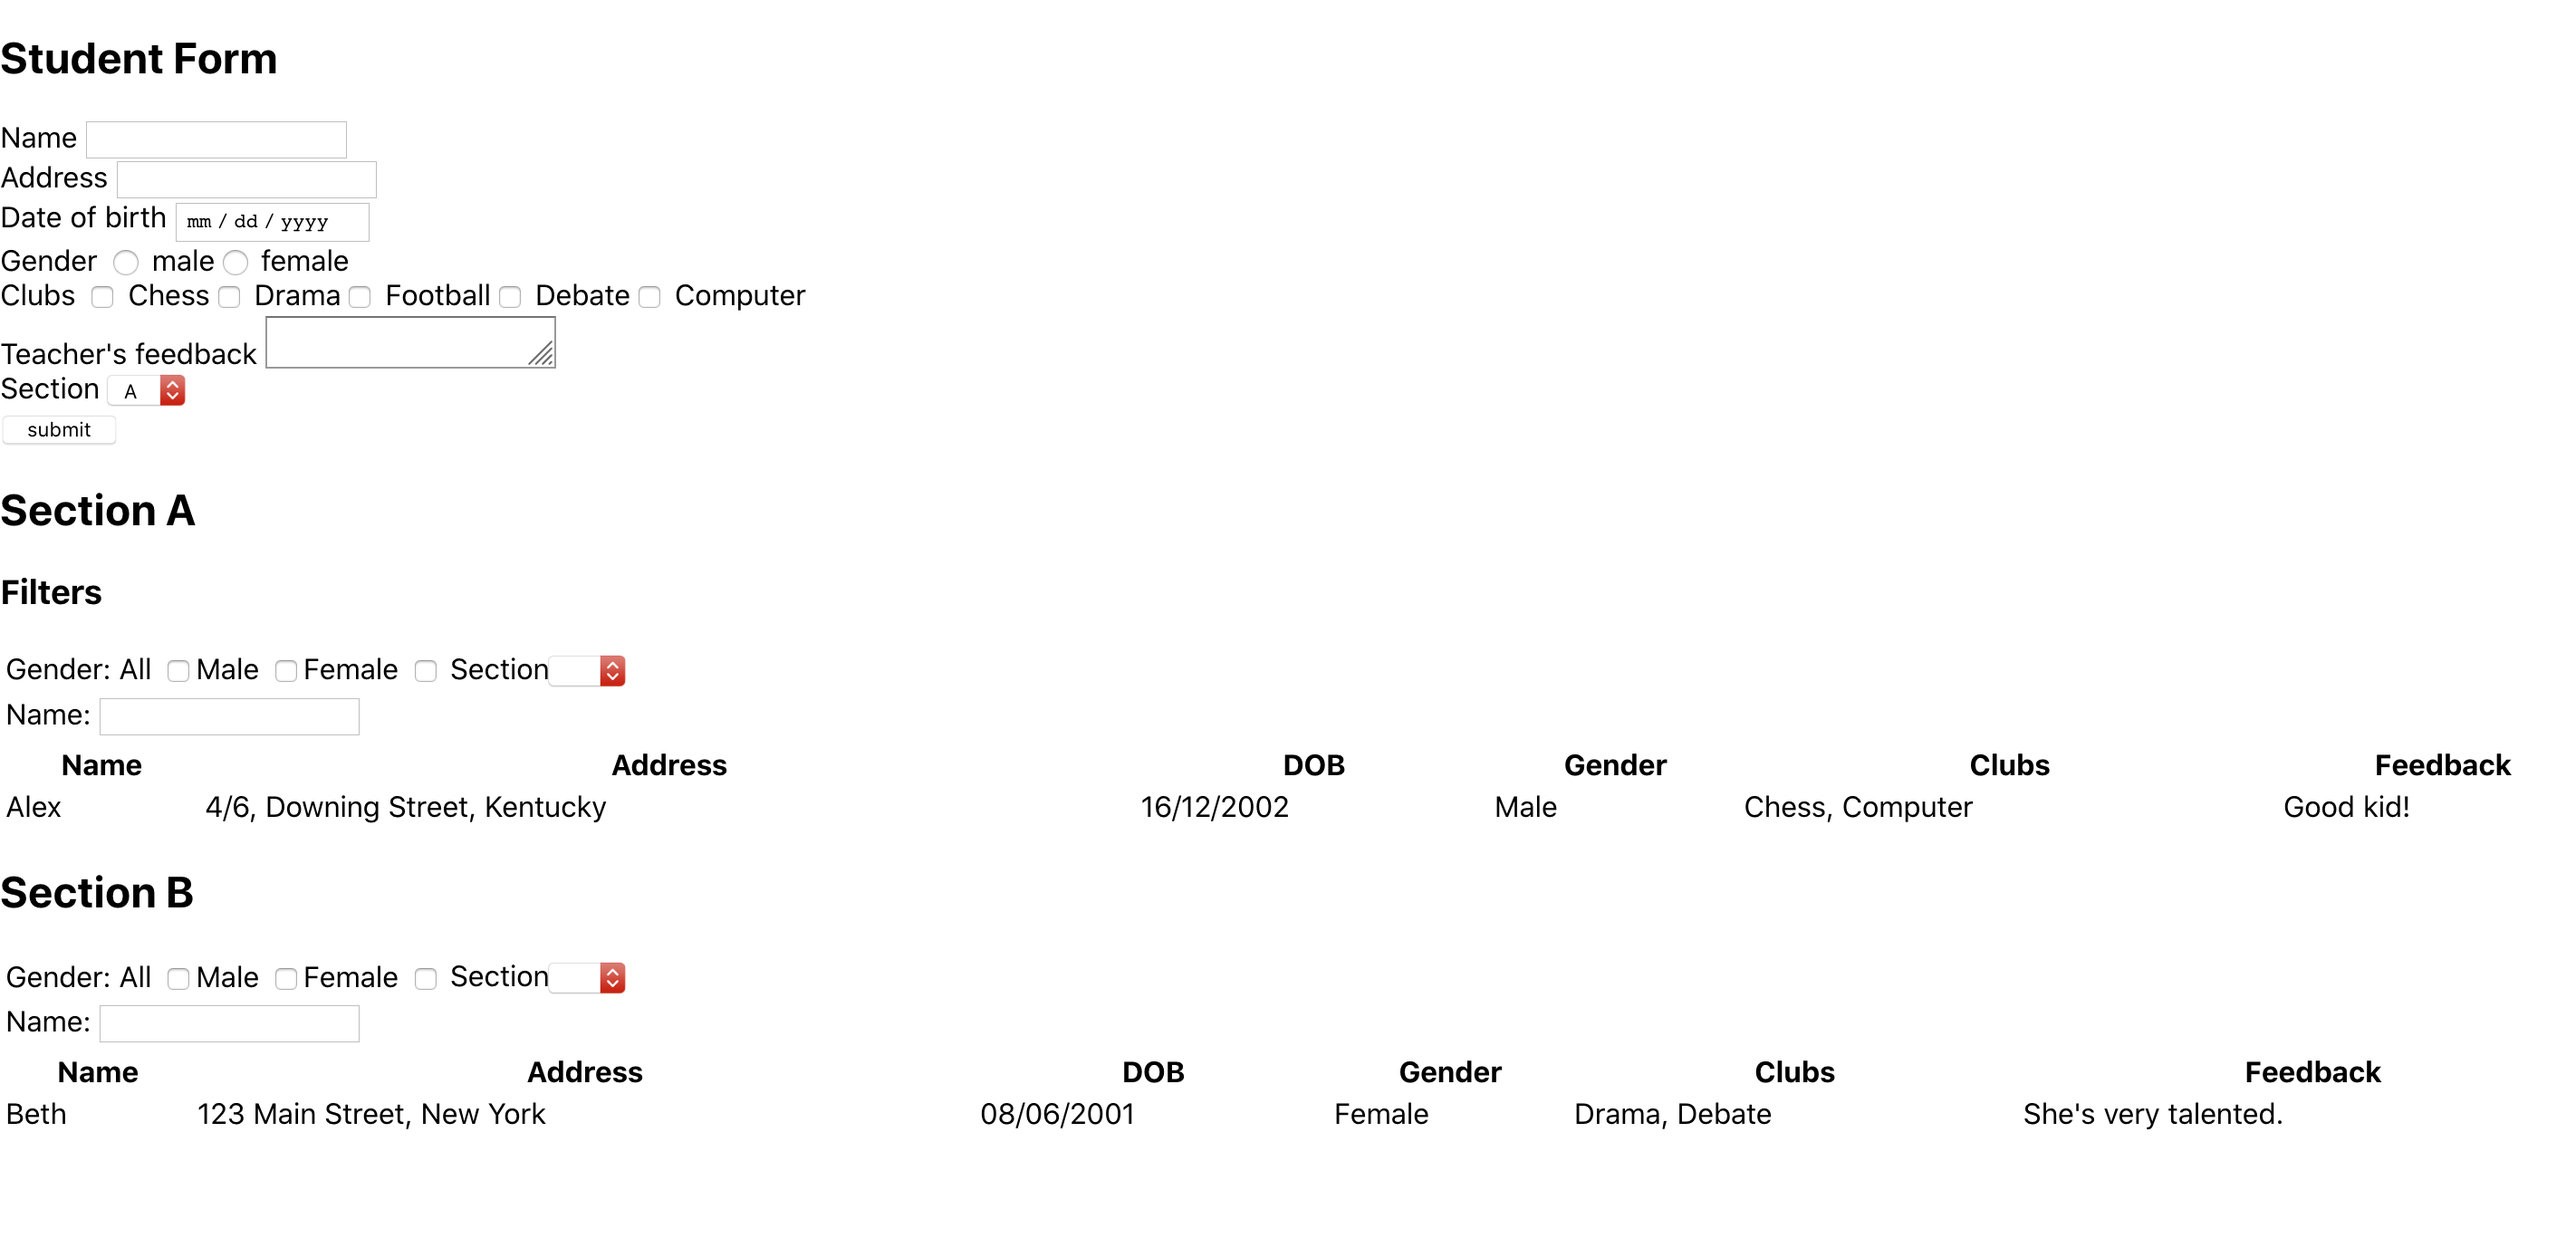
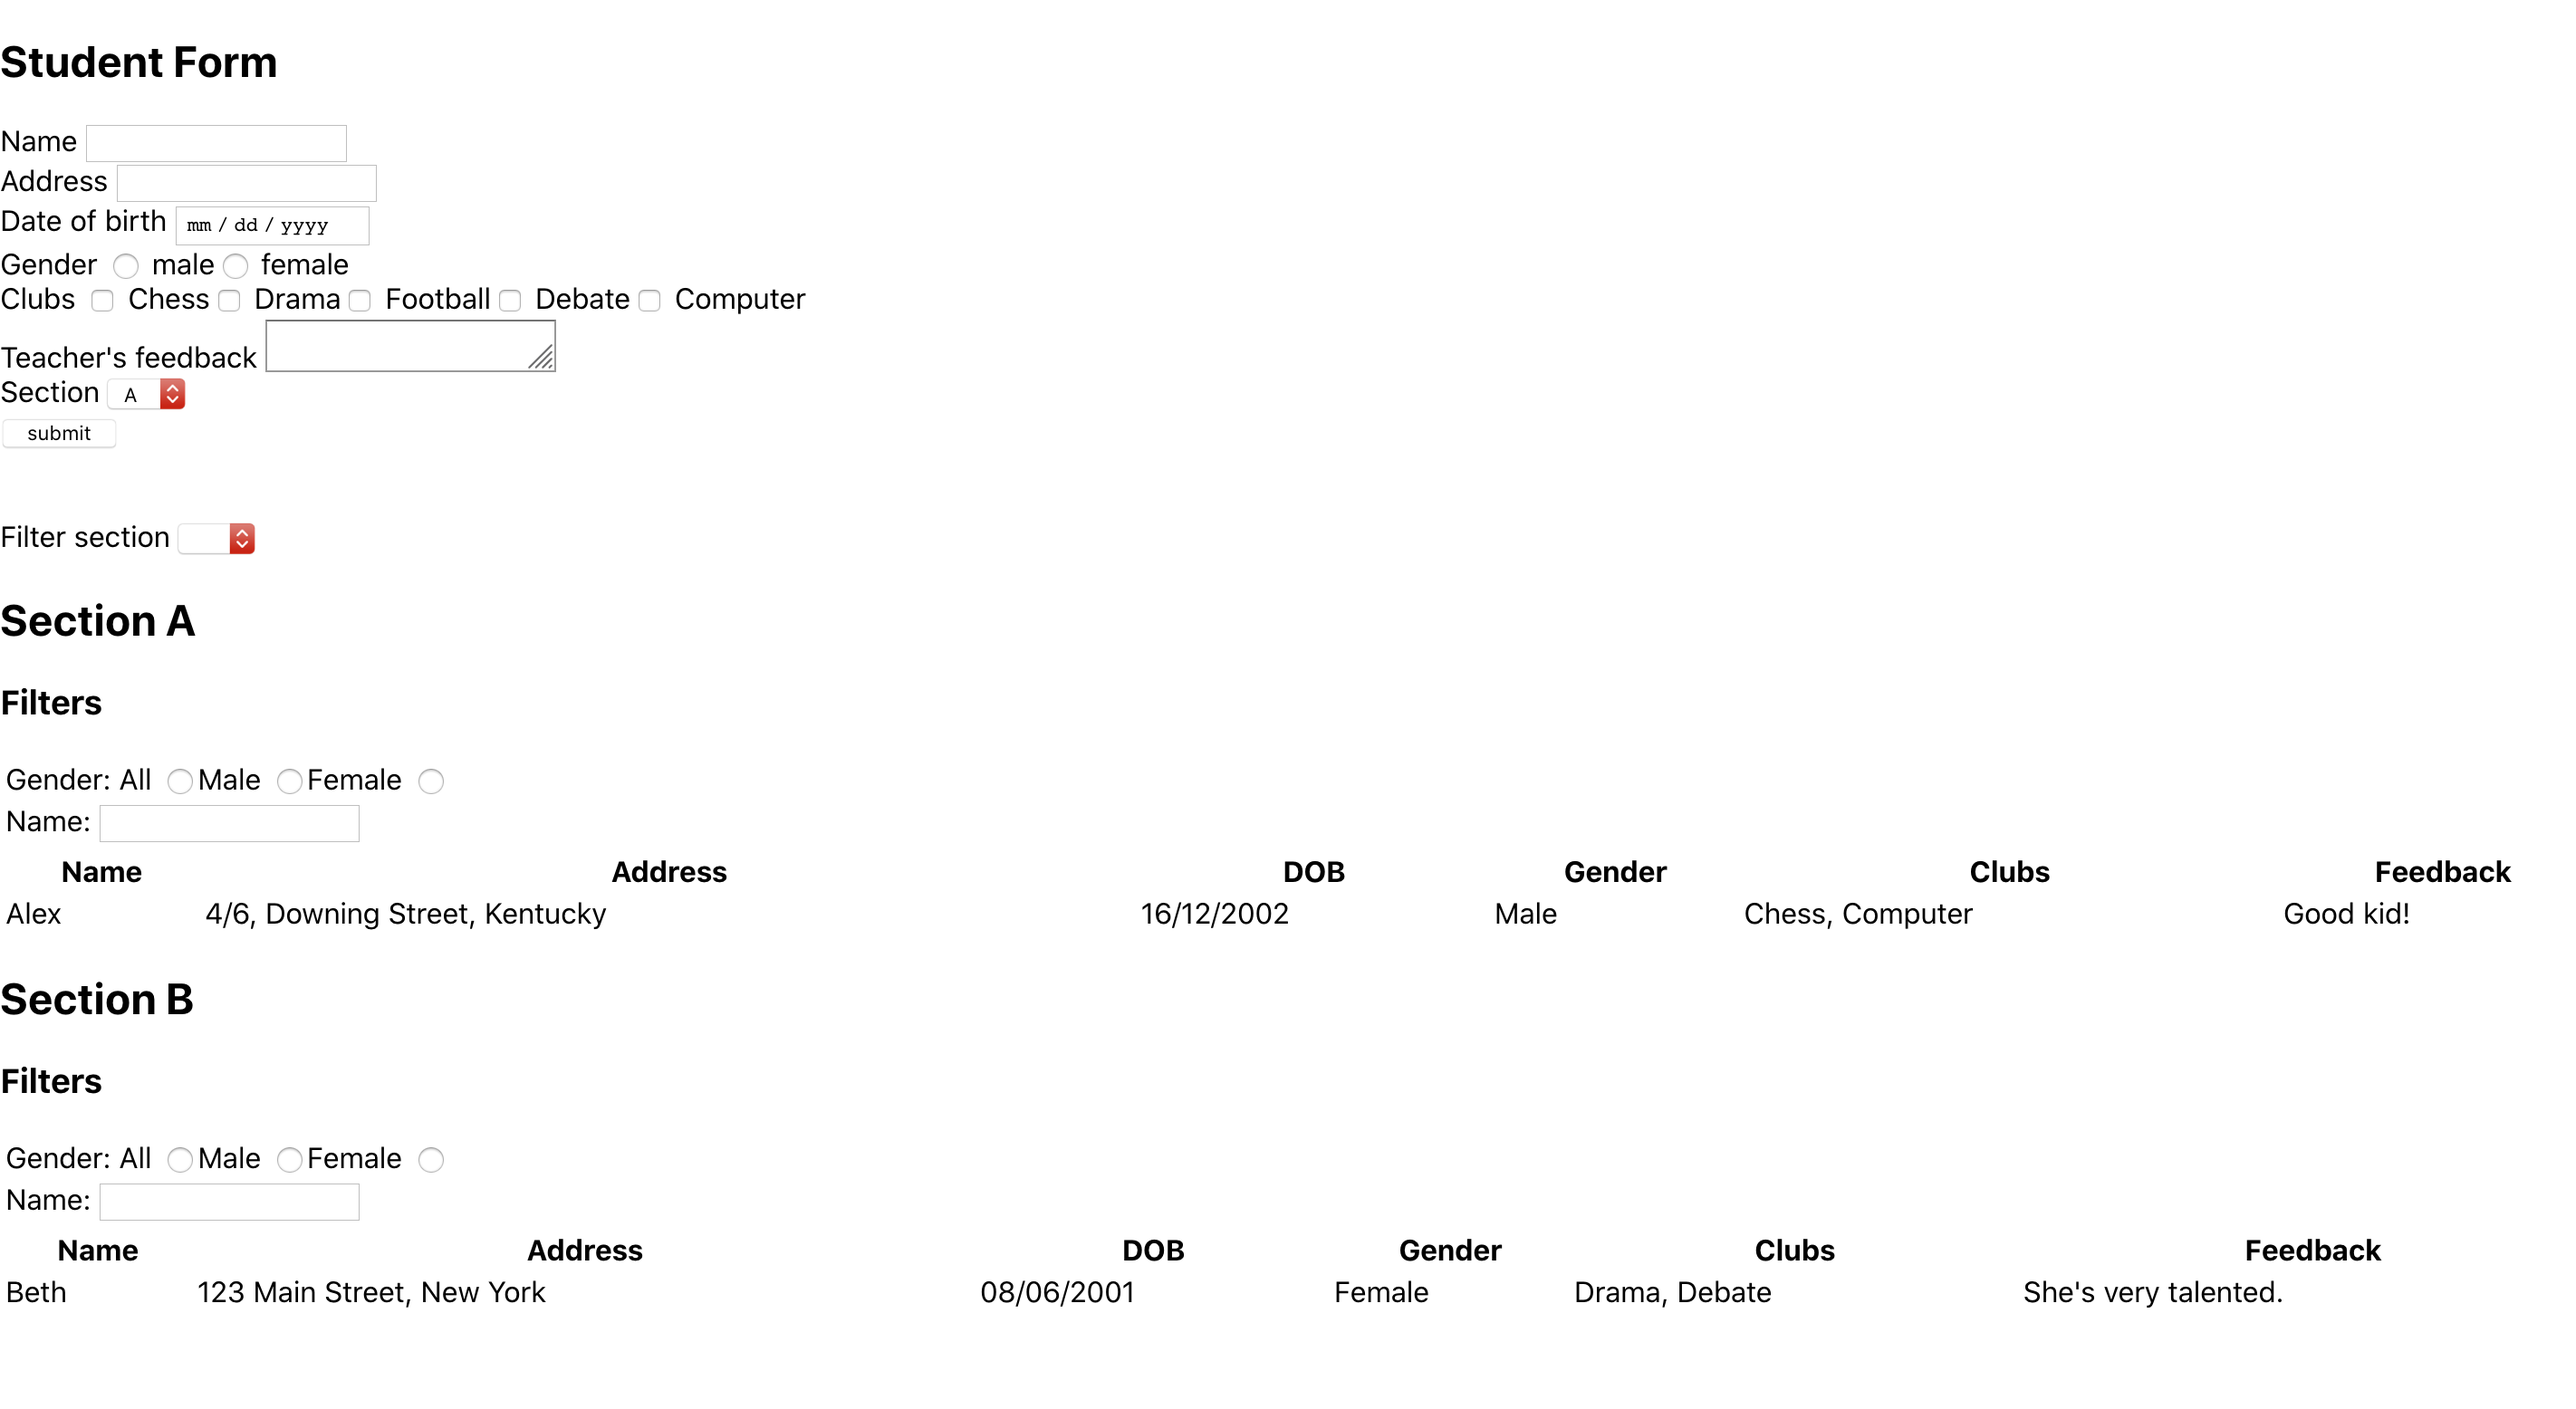
Question 1 fixes

diff --git a/src/Questions/One/AnswerOne.jsx b/src/Questions/One/AnswerOne.jsx
@@ -41,7 +41,16 @@ export default function AnswerOne() {
         <br />
         <input type="submit" value="submit" />
       </div>
+      <br />
+      <br />
       <div>
+        <div>
+          <label>Filter section </label>
+          <select name="moviepref">
+            <option></option>
+            <option value={1}>A</option>
+          </select>
+        </div>
         <div>
           <h2>Section A</h2>
           <form>
@@ -50,16 +59,9 @@ export default function AnswerOne() {
               <tr>
                 <td>
                   <label>Gender: </label>
-                  All <input type="checkbox" />
-                  Male <input type="checkbox" />
-                  Female <input type="checkbox" />
-                </td>
-                <td>
-                  <label>Section</label>
-                  <select name="moviepref">
-                    <option></option>
-                    <option value={1}>A</option>
-                  </select>
+                  All <input type="radio" />
+                  Male <input type="radio" />
+                  Female <input type="radio" />
                 </td>
               </tr>
               <tr>
@@ -91,29 +93,25 @@ export default function AnswerOne() {
         </div>
         <div>
           <h2>Section B</h2>
-          <table>
-            <tr>
-              <td>
-                <label>Gender: </label>
-                All <input type="checkbox" />
-                Male <input type="checkbox" />
-                Female <input type="checkbox" />
-              </td>
-              <td>
-                <label>Section</label>
-                <select name="moviepref">
-                  <option></option>
-                  <option value={1}>A</option>
-                </select>
-              </td>
-            </tr>
-            <tr>
-              <td>
-                <label>Name: </label>
-                <input type="text" />
-              </td>
-            </tr>
-          </table>
+          <form>
+            <h3>Filters</h3>
+            <table>
+              <tr>
+                <td>
+                  <label>Gender: </label>
+                  All <input type="radio" />
+                  Male <input type="radio" />
+                  Female <input type="radio" />
+                </td>
+              </tr>
+              <tr>
+                <td>
+                  <label>Name: </label>
+                  <input type="text" />
+                </td>
+              </tr>
+            </table>
+          </form>
           <table style={{ width: "100%" }}>
             <tr>
               <th>Name</th>
